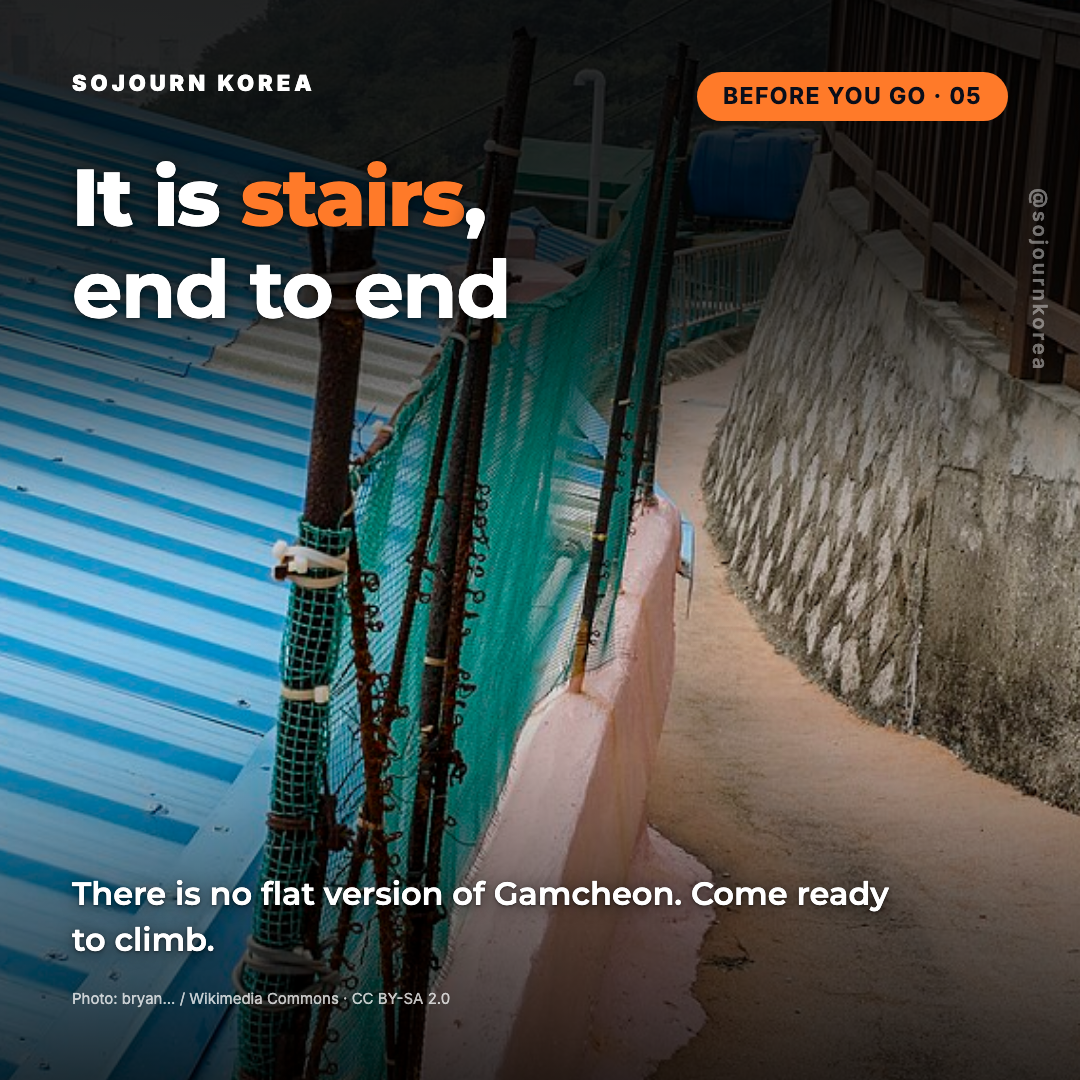
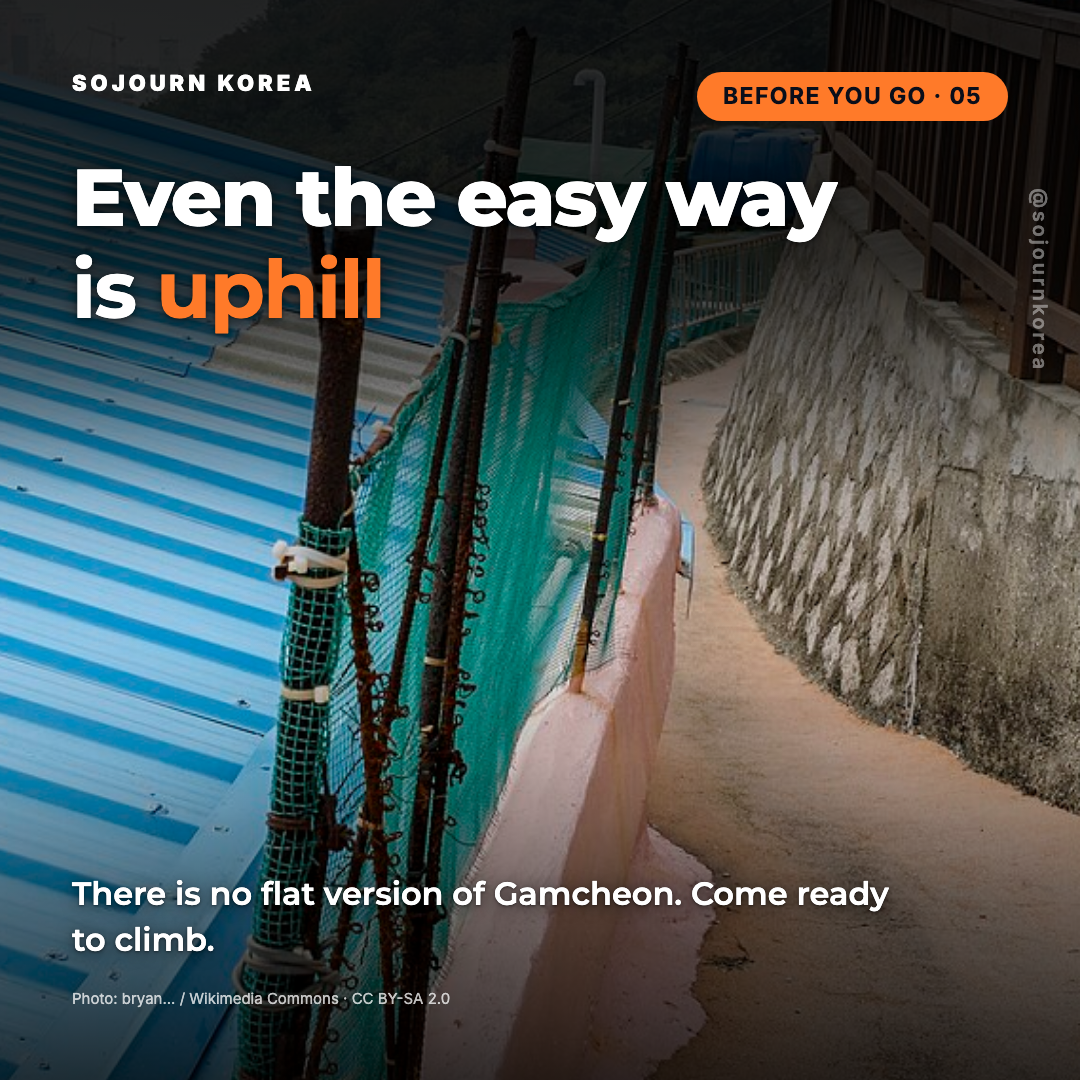
fix(cards): 카드 05 헤드라인을 사진에 맞춘다 — "It is stairs" → "Even the easy way / is uphill"
사진(gamcheon-30809161817.jpg)에는 계단이 한 칸도 없다. 콘크리트로 포장된 완만한
경사 보행로다. 헤드라인이 "It is stairs, end to end"라 사진이 문장을 반증했다.

문장 자체는 거짓이 아니다 — 블로그 본문에 발행된 참인 서술이다. 문제는 정합성이고,
더 정확히는 이 사진이 하필 그 문장의 **예외**를 찍은 컷이라는 데 있다. 자사 블로그가
같은 사진에 붙인 캡션이 "Signed paths run along the ridge; almost everything else is
stairs." 다. 능선 길은 계단이 아닌 쪽이다.

그래서 사진을 문구에 맞추는 대신 문구를 사진에 맞췄다. 새 헤드라인은 "정비된 길조차
기울어 있다"고 말하므로 사진이 근거가 되고, 받침 문장("no flat version… come ready to
climb")과의 논리도 그대로 이어진다. 배지가 "Before you go"라 실용적 경고라는 슬롯
기능도 유지된다.

후보 3개를 게이트로 올려 사용자가 A안을 골랐다. B("You walk at roof height")는 사진
일치도가 가장 높지만 카드 03과 주제가 겹쳤고, C("The path runs along the ridge")는
출처 정합성이 가장 단단하지만 준비를 요구하지 않는 문장이 됐다.

manifest.wanted의 감천 계단 촬영 요청은 유효하게 남긴다 — 계단을 정면으로 다루는
카드를 만들려면 여전히 그 사진이 필요하다.

검증: 렌더 exit 0, ISSUES 0. 01·02·03·04·06은 병합 직후 대비 **바이트 동일**,
05만 변경(sha e5f5c57f1632 → 081ac2a6c8ad). 공용 brand.css는 손대지 않았다.

Changed region(s): [[0.0611, 0.1528, 0.7944, 0.3056]]

diff --git a/_workspace/03_cards.html b/_workspace/03_cards.html
@@ -125,7 +125,16 @@
   <div class="lockup"><span class="mark">SOJOURN KOREA</span></div>
   <span class="badge">Before you go · 05</span>
 
-  <h2 class="h-simple">It is <span class="hi">stairs</span>,<br><span class="soft">end to end</span></h2>
+  <!-- Was "It is stairs, end to end" — a line that is published on the blog and
+       true of the village, but this photograph is the exception to it. The
+       blog's own caption on this exact file reads "Signed paths run along the
+       ridge; almost everything else is stairs," and the frame holds no steps at
+       all: a graded path between a retaining wall and a roof. The headline was
+       being contradicted by the picture under it. The new line keeps the slot's
+       job — this is the card that asks the reader to prepare — by absorbing what
+       the photo shows rather than arguing with it, and it still lands on the
+       support line below. -->
+  <h2 class="h-simple">Even the easy way<br><span class="soft">is <span class="hi">uphill</span></span></h2>
 
   <p class="support">There is no flat version of Gamcheon. Come ready to climb.</p>
   <p class="watermark" data-contrast-exempt="watermark, deliberately low contrast">@sojournkorea</p>
